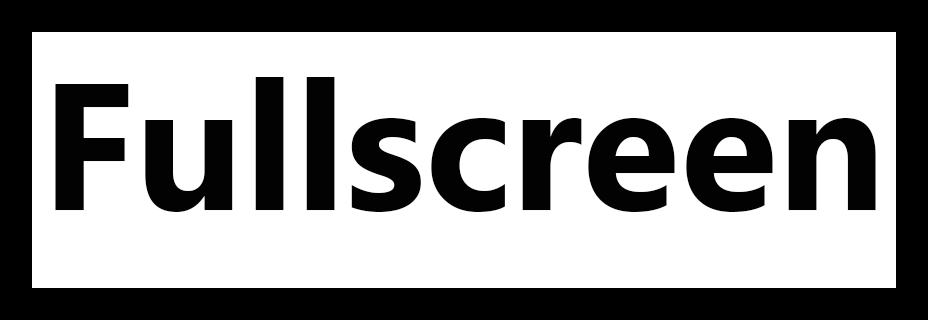
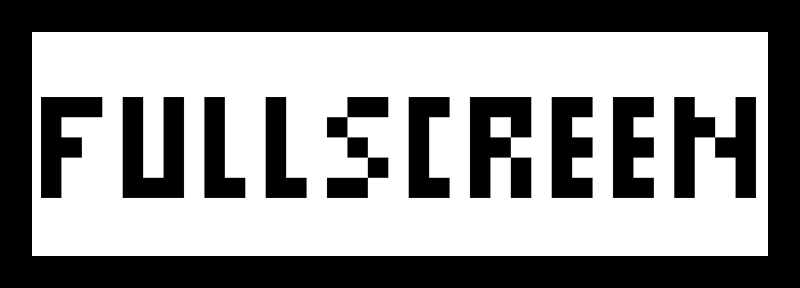
Changed the options and the fullscreen buttons so that they match design, added the beginings to a game over game state

Changed region(s): [[0.0312, 0.0938, 0.9688, 0.9062]]

diff --git a/GroupGame/GroupGame/Game1.cs b/GroupGame/GroupGame/Game1.cs
@@ -11,7 +11,7 @@ using Microsoft.Xna.Framework;
 using Microsoft.Xna.Framework.Graphics;
 using Microsoft.Xna.Framework.Input;
 
-enum GameState { Menu, HordeMode, Paused, Options, CharacterSelection}; // GameState enum for keeping track of what state our game is in
+enum GameState { Menu, HordeMode, Paused, Options, CharacterSelection, GameOver}; // GameState enum for keeping track of what state our game is in
 enum AbilityState { a1, a2, a3, a4 }; // AbilityState enum for keeping track of the ability the player is using
 enum HeroState { Still, Walking }; // HeroState enum for keeping track of the state of the player
 enum SwitchHero { Fire, Earth, Water, Electric}; // switch heroes
@@ -786,7 +786,7 @@ namespace GroupGame
 
                     // Menu and options menu setting buttons
                     rMButton = new Rectangle((GraphicsDevice.Viewport.Width / 2) - (rMButton.Width / 2), (GraphicsDevice.Viewport.Height / 2) + rMButton.Height, menu.Width / 4, menu.Height / 4);
-                    rFButton = new Rectangle((GraphicsDevice.Viewport.Width / 2) - (rFButton.Width / 2), (GraphicsDevice.Viewport.Height / 2) - (rFButton.Height / 2), fullscreenButton.Width / 4, fullscreenButton.Height / 4);
+                    rFButton = new Rectangle((GraphicsDevice.Viewport.Width / 2) - (rFButton.Width / 2), (GraphicsDevice.Viewport.Height / 2) - (rFButton.Height / 2), menu.Width / 4, menu.Height / 4);
                     
                     // Confirmation dialog buttons
                     rOKButton = new Rectangle((GraphicsDevice.Viewport.Width / 2) - ((int)(1.35 * rOKButton.Width)), (GraphicsDevice.Viewport.Height / 2) - (rOKButton.Height / 2), okButton.Width / 4, okButton.Height / 4);
